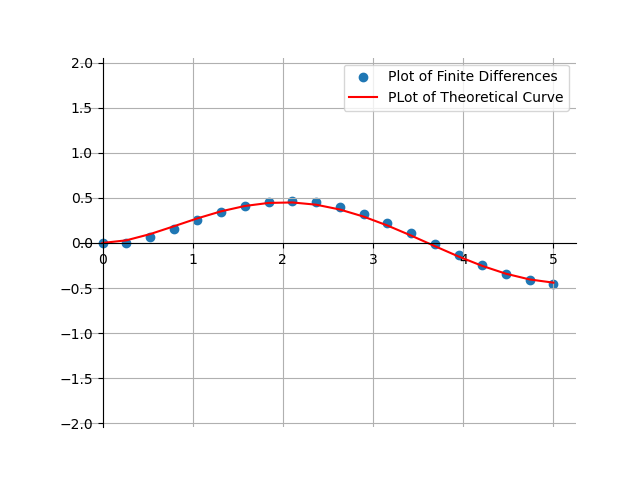
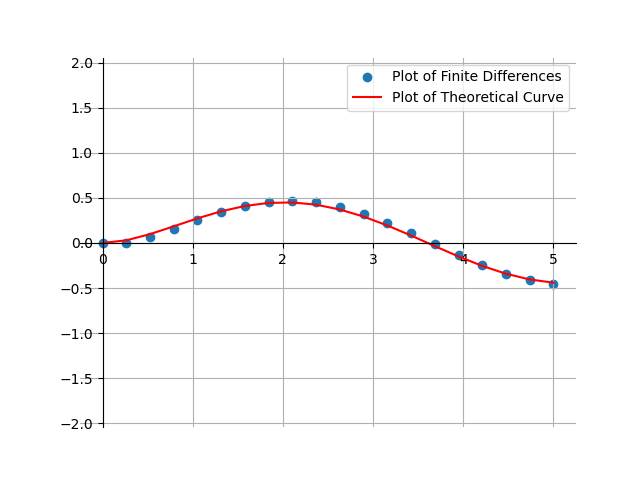
changes

Changed region(s): [[0.5312, 0.125, 0.875, 0.2188]]

diff --git a/Assignment1/codes/SO_file/code.py b/Assignment1/codes/SO_file/code.py
@@ -28,7 +28,7 @@ for i in range(resolution):
     y_theoretical[i] = theoretical_function(ctypes.c_double(x[i]))
 
 plt.scatter(x, y, label = 'Plot of Finite Differences')
-plt.plot(x, y_theoretical, label = 'PLot of Theoretical Curve', color = 'red')
+plt.plot(x, y_theoretical, label = 'Plot of Theoretical Curve', color = 'red')
 
 ax = plt.gca()
 ax.spines['top'].set_color('none')

diff --git a/Assignment1/main.tex b/Assignment1/main.tex
@@ -178,7 +178,7 @@
     Below is verification:
     \begin{figure}[ht]  
         \centering  
-        \includegraphics[width=\columnwidth]{figs/fig1.png}  
+        \includegraphics[width=\columnwidth]{figs/fig1_.png}  
         \caption{Verification}
         % \columnwidth
     \end{figure}
